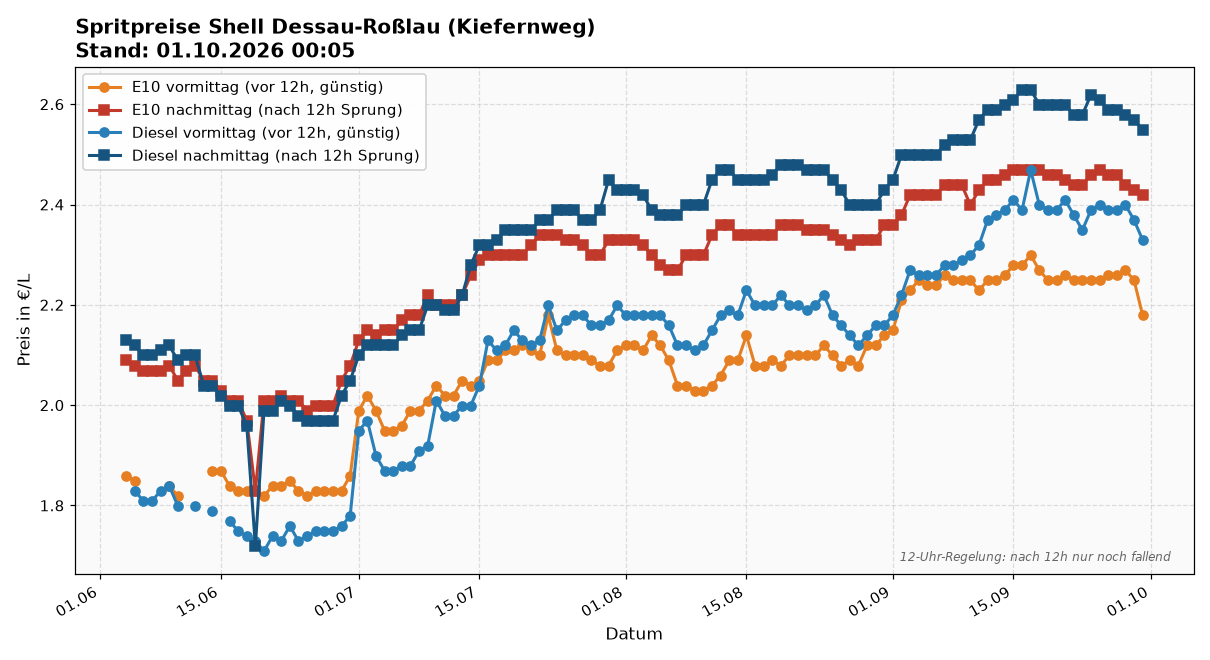
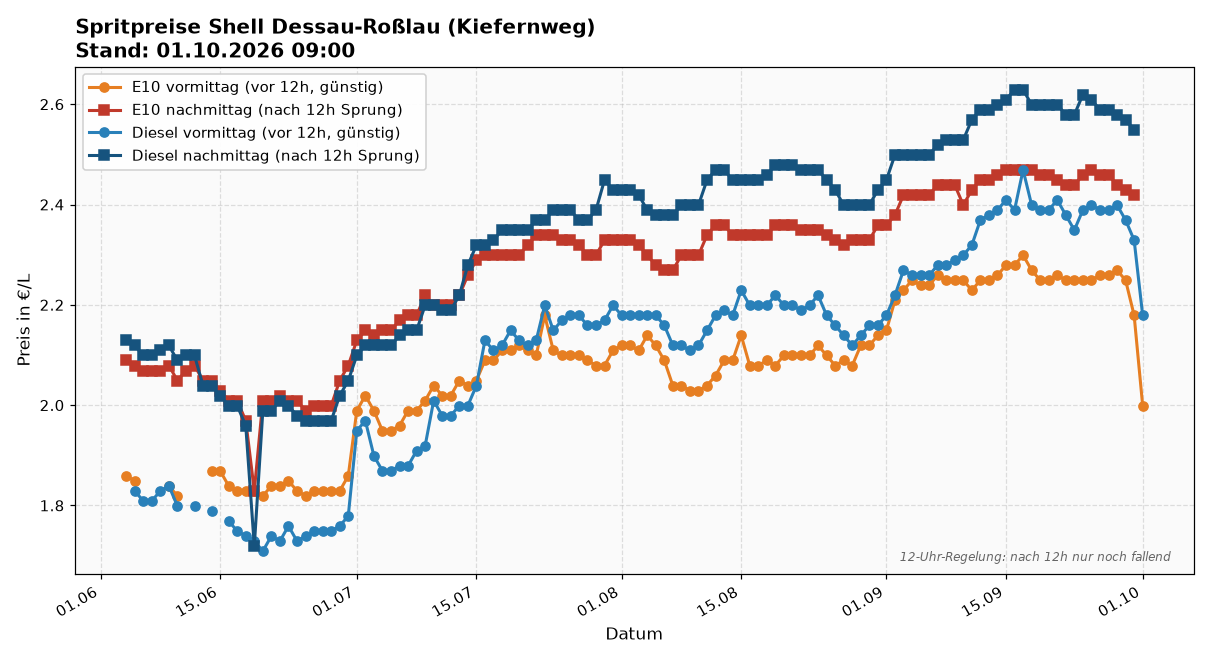
update: spritpreise 2026-10-01 09:00

diff --git a/index.html b/index.html
@@ -19,17 +19,17 @@
 </head>
 <body>
 <h1>🛢 Spritpreise Shell Dessau-Roßlau (Kiefernweg)</h1>
-<div class="sub">Source: Tankerkönig · Stand: 01.10.2026 00:05</div>
+<div class="sub">Source: Tankerkönig · Stand: 01.10.2026 09:00</div>
 
 <img src="latest.png" alt="Preisverlauf">
 
 <div class="latest">
   <strong>Heute (2026-10-01)</strong>
-  <div style="color:#888;font-style:italic;margin-bottom:0.5em;">Noch keine Messung heute — cron läuft 09:00 + 12:10.</div>
+  
   <table>
-    <tr><td>E10 vormittag</td><td class="price">— €</td></tr>
+    <tr><td>E10 vormittag</td><td class="price">1.999 €</td></tr>
     <tr><td>E10 nachmittag</td><td class="price">— €</td></tr>
-    <tr><td>Diesel vormittag</td><td class="price">— €</td></tr>
+    <tr><td>Diesel vormittag</td><td class="price">2.179 €</td></tr>
     <tr><td>Diesel nachmittag</td><td class="price">— €</td></tr>
   </table>
 </div>
